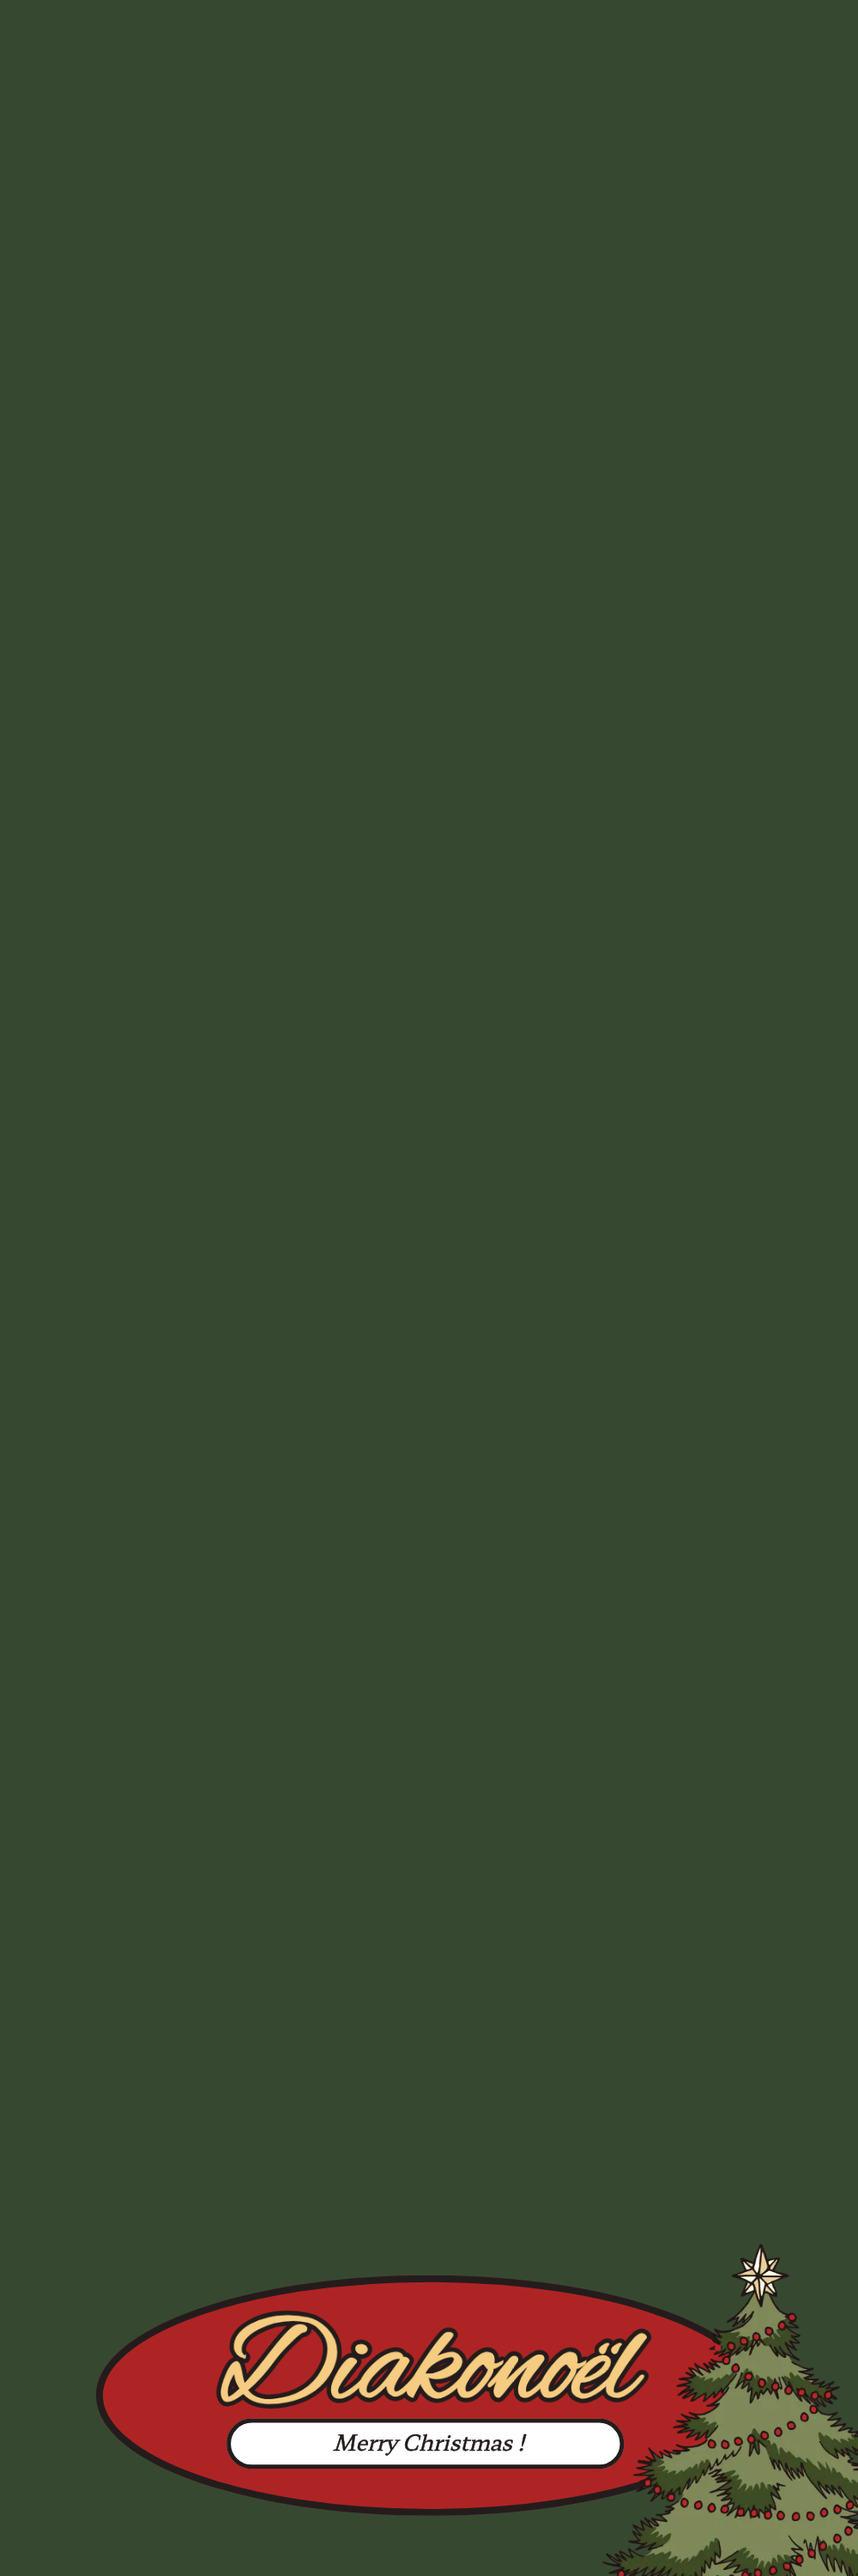
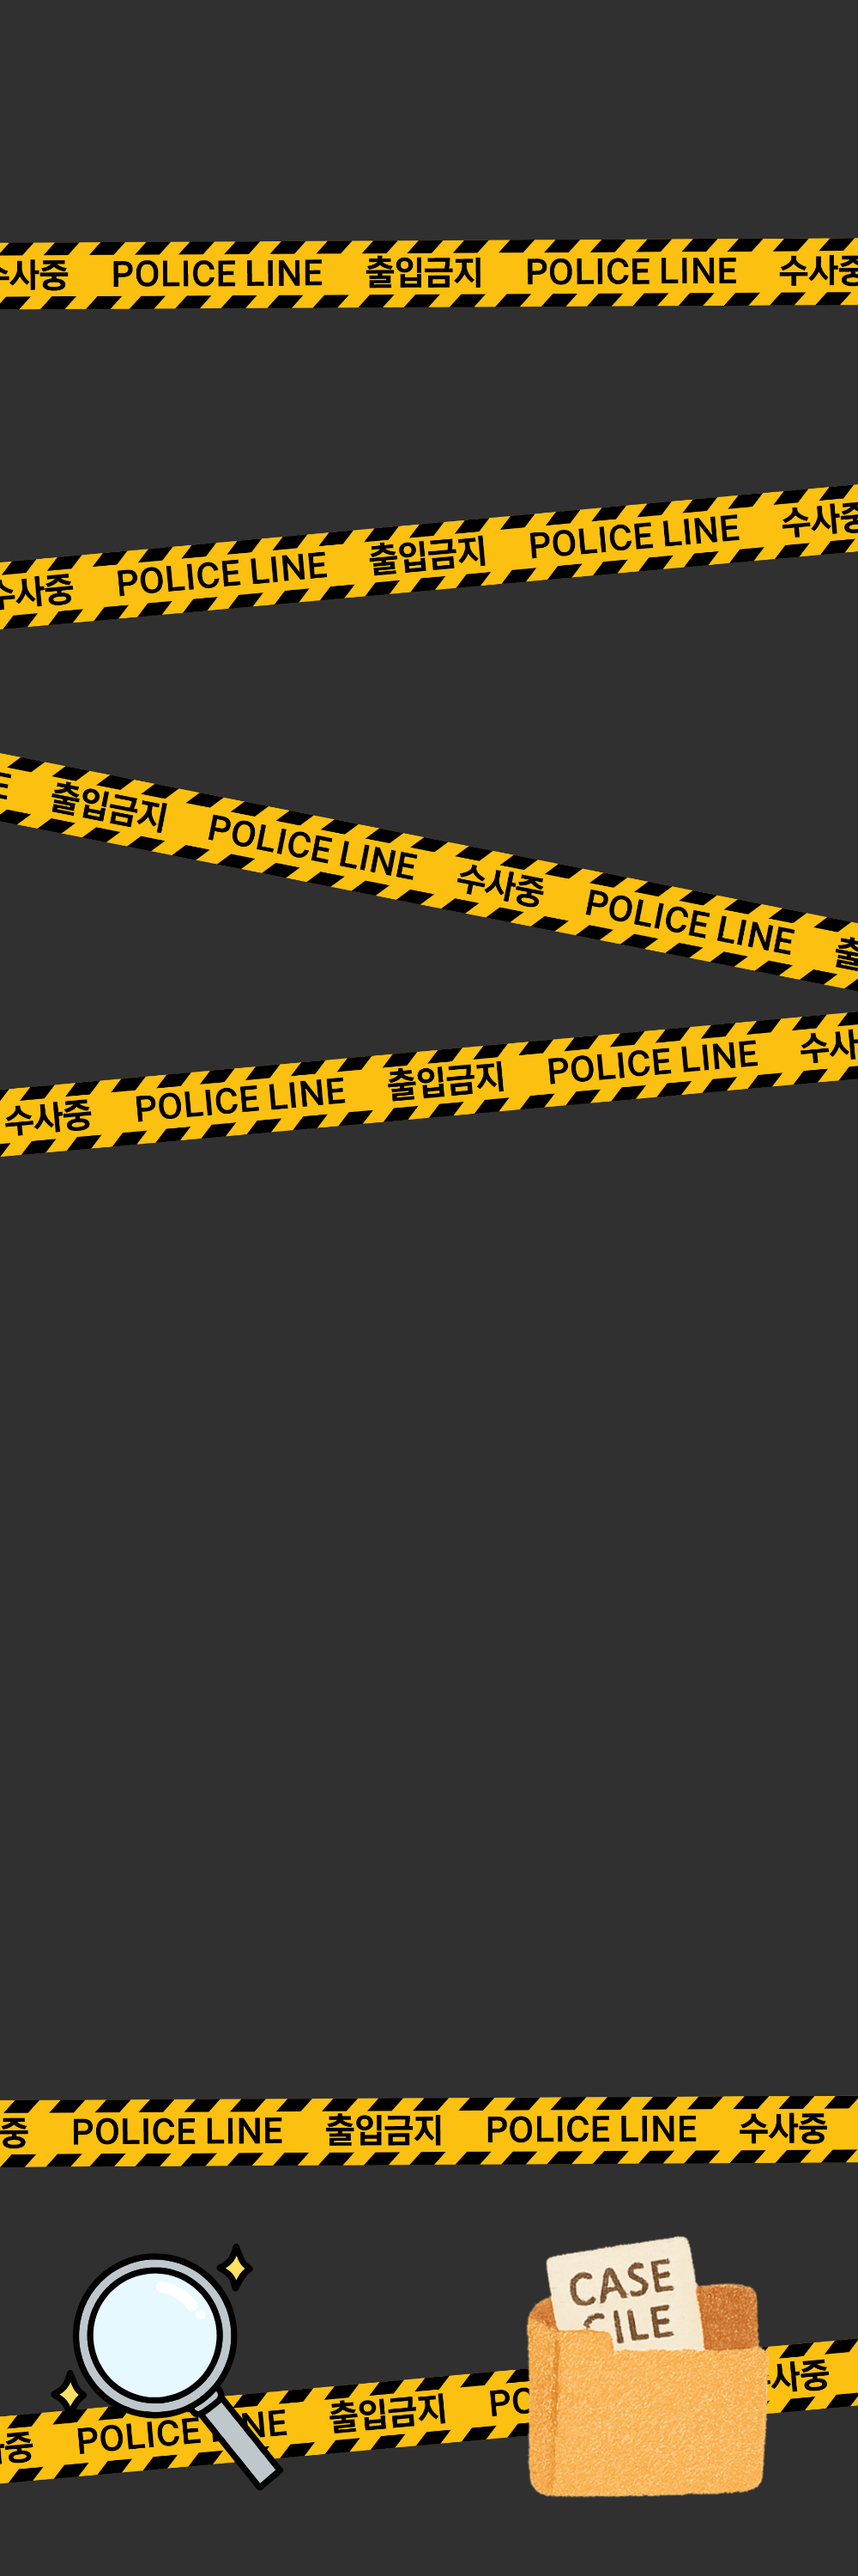
frame

diff --git a/src/components/DiakonoelPhotobooth.tsx b/src/components/DiakonoelPhotobooth.tsx
@@ -14,7 +14,7 @@ const PHOTO_SLOTS = [
   { x: 57, y: 1997, width: 885, height: 589 },
 ] as const;
 
-const TEMPLATE_SRC = "/diakonoel-frame.png"; // public/diakonoel-frame.png (1000×3000)
+const TEMPLATE_SRC = `${import.meta.env.BASE_URL}diakonoel-frame.png`;
 
 function pad2(n: number) {
   return String(n).padStart(2, "0");
@@ -56,8 +56,7 @@ async function uploadStripToFirebase(dataUrl: string, filename: string) {
 function drawCover(
   ctx: CanvasRenderingContext2D,
   img: HTMLImageElement,
-  slot: { x: number; y: number; width: number; height: number },
-  bw: boolean
+  slot: { x: number; y: number; width: number; height: number }
 ) {
   const { x, y, width, height } = slot;
 
@@ -81,7 +80,7 @@ function drawCover(
   }
 
   ctx.save();
-  ctx.filter = bw ? "grayscale(1)" : "none";
+  ctx.filter = "none"; // ✅ 흑백 제거
   ctx.drawImage(img, sx, sy, sWidth, sHeight, x, y, width, height);
   ctx.restore();
 }
@@ -96,7 +95,6 @@ const DiakonoelPhotobooth: React.FC = () => {
   const [flashVisible, setFlashVisible] = useState(false);
 
   const [resultUrl, setResultUrl] = useState<string | null>(null);
-  const [isBW, setIsBW] = useState(false);
 
   type PrintStage = "idle" | "printing" | "done";
   const [printStage, setPrintStage] = useState<PrintStage>("idle");
@@ -151,6 +149,7 @@ const DiakonoelPhotobooth: React.FC = () => {
 
   /**
    * ✅ 저장본도 “미리보기(거울)” 그대로 나오게 캡처도 거울 처리
+   * ✅ 흑백 효과 제거 (항상 컬러)
    */
   const captureFrameToCanvas = (canvas: HTMLCanvasElement) => {
     const video = videoRef.current;
@@ -167,7 +166,7 @@ const DiakonoelPhotobooth: React.FC = () => {
     if (!ctx) return;
 
     ctx.save();
-    ctx.filter = isBW ? "grayscale(1)" : "none";
+    ctx.filter = "none"; // ✅ 흑백 제거
 
     // 거울 캡처
     ctx.translate(vW, 0);
@@ -187,7 +186,7 @@ const DiakonoelPhotobooth: React.FC = () => {
     return tmpCanvas.toDataURL("image/jpeg", 0.95);
   };
 
-  const makeStrip = (shots: string[], bw: boolean): Promise<string> => {
+  const makeStrip = (shots: string[]): Promise<string> => {
     return new Promise((resolve) => {
       const canvas = stripCanvasRef.current;
       if (!canvas) return resolve("");
@@ -211,7 +210,7 @@ const DiakonoelPhotobooth: React.FC = () => {
           img.src = dataUrl;
 
           img.onload = () => {
-            drawCover(ctx, img, PHOTO_SLOTS[idx], bw);
+            drawCover(ctx, img, PHOTO_SLOTS[idx]);
             loaded += 1;
 
             if (loaded === shots.length) {
@@ -277,7 +276,7 @@ const DiakonoelPhotobooth: React.FC = () => {
       }
     }
 
-    const stripUrl = await makeStrip(shots, isBW);
+    const stripUrl = await makeStrip(shots);
     if (!stripUrl) {
       alert("스트립 생성 실패! 콘솔을 확인해줘.");
       setIsCapturing(false);
@@ -306,14 +305,14 @@ const DiakonoelPhotobooth: React.FC = () => {
 
   return (
     <div className="dpb-root">
-      <h1 className="dpb-title">⋆⁺₊❅ Diakonoël Photobooth ⋆⁺₊❅</h1>
+      <h1 className="dpb-title">🕵🏻♀ Diaknos Crime Scene Photobooth 🔎</h1>
       <p className="dpb-subtitle">네컷으로 소중한 순간을 기록하세요</p>
 
       <div className="dpb-camera-card">
         <div className="dpb-video-wrapper">
           <video
             ref={videoRef}
-            className={`dpb-video ${isBW ? "dpb-video--bw" : ""}`}
+            className="dpb-video"
             autoPlay
             muted
             playsInline
@@ -325,29 +324,6 @@ const DiakonoelPhotobooth: React.FC = () => {
         </div>
 
         <div className="dpb-controls">
-          <div className="dpb-toggle">
-            <button
-              type="button"
-              className={`dpb-toggle-btn ${
-                isBW ? "dpb-toggle-btn--active" : ""
-              }`}
-              onClick={() => setIsBW(true)}
-              disabled={isCapturing || printStage === "printing"}
-            >
-              B&amp;W
-            </button>
-            <button
-              type="button"
-              className={`dpb-toggle-btn ${
-                !isBW ? "dpb-toggle-btn--active" : ""
-              }`}
-              onClick={() => setIsBW(false)}
-              disabled={isCapturing || printStage === "printing"}
-            >
-              Color
-            </button>
-          </div>
-
           <div className="dpb-buttons">
             {!hasCamera && (
               <button className="dpb-btn" type="button" onClick={startCamera}>
@@ -402,7 +378,7 @@ const DiakonoelPhotobooth: React.FC = () => {
             ? "프린터에서 출력 중…"
             : printStage === "done"
             ? "출력 완료! "
-            : "촬영 후 인생네컷이 프린터에서 출력됩니다 𐙚⋆°｡⋆♡ㅋ"}
+            : "촬영 후 인생네컷이 프린터에서 출력됩니다 🔎"}
         </p>
       </div>
 
